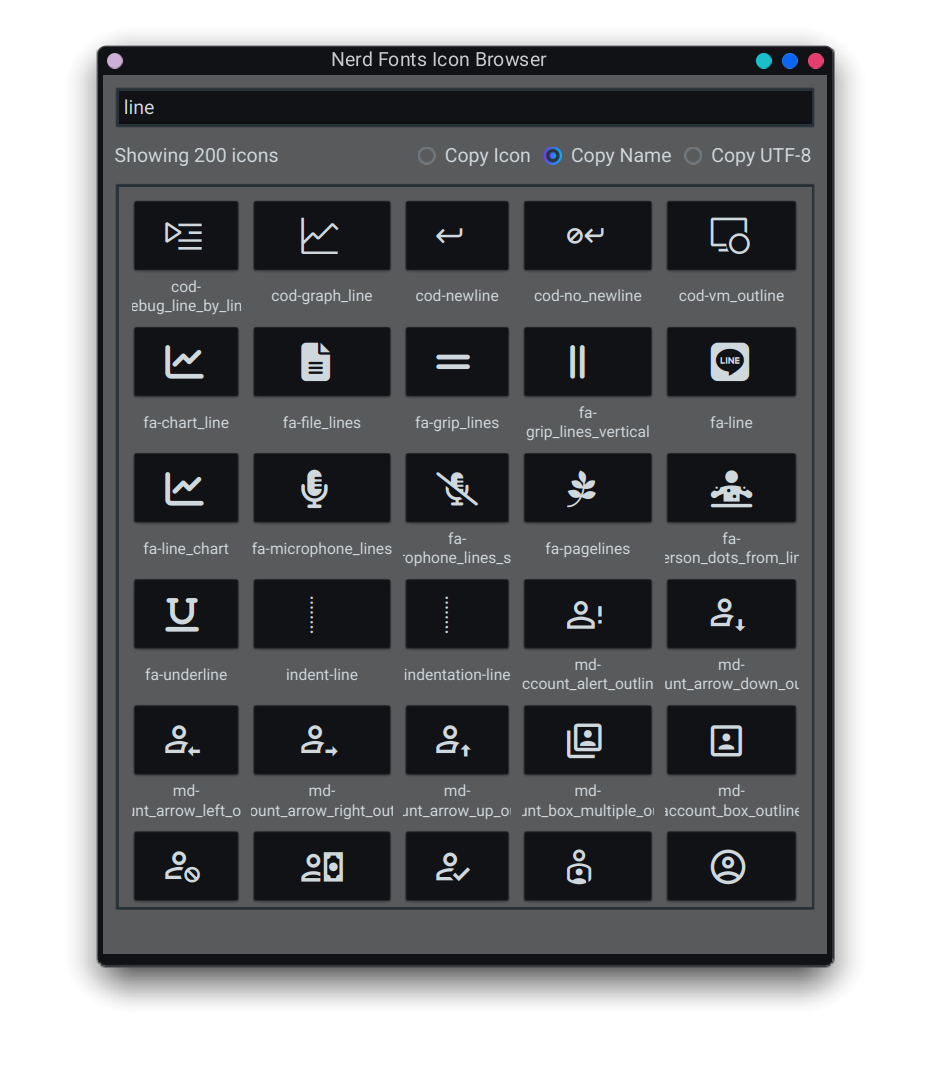
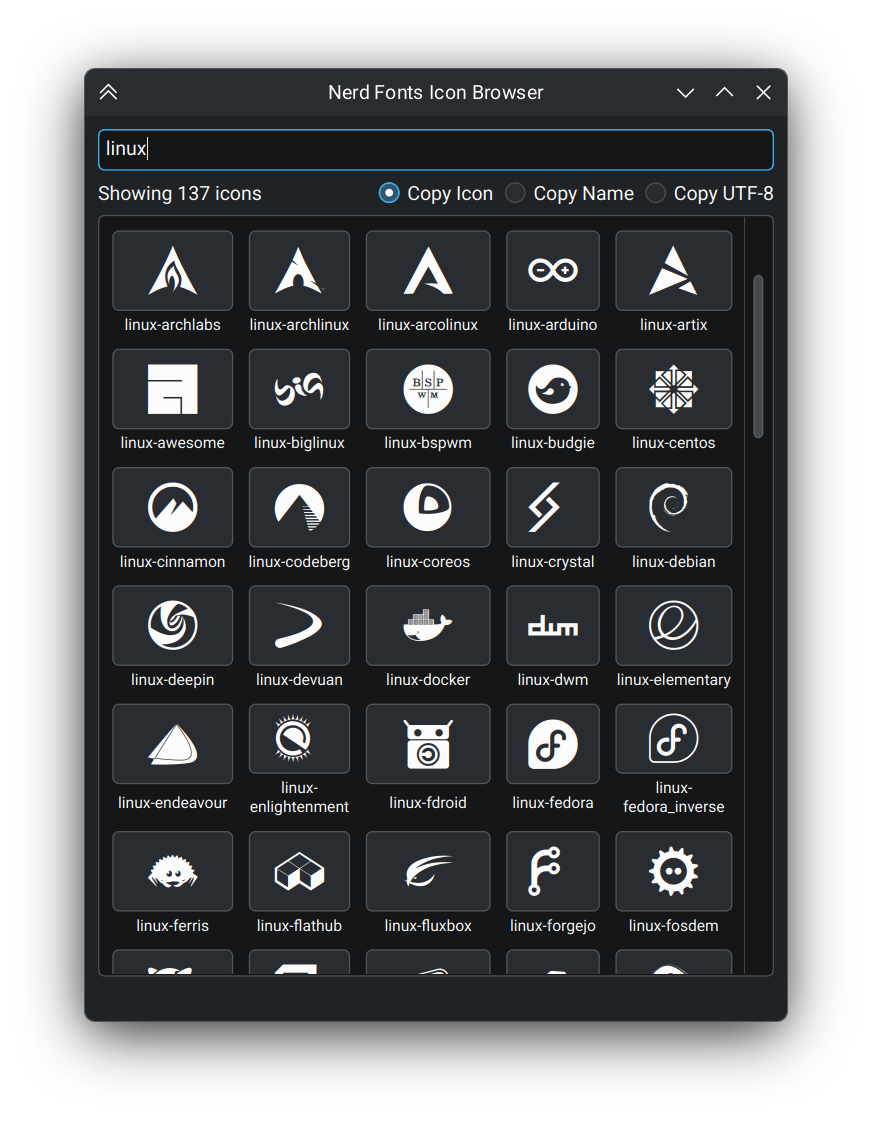
Update
Update README.md

Update README.md

Update README.md

Create ss2.png

update ss and font size

Update ss.png

update ss and size again

diff --git a/src/ui/icon_container/icon_container.cpp b/src/ui/icon_container/icon_container.cpp
@@ -1,8 +1,9 @@
 #include "icon_container.h"
+#include "../../constants.h"
+
 #include <QAction>
 #include <QStyle>
 #include <QMenu>
-#include <qtmetamacros.h>
 
 IconContainer::IconContainer(QWidget *parent, const QString &iconStr, const QString &labelStr, const QString &utfStr):
     QWidget(parent),
@@ -18,19 +19,25 @@ IconContainer::IconContainer(QWidget *parent, const QString &iconStr, const QStr
     setMinimumWidth(64);
     setMaximumHeight(92);
 
-    mainLayout->setContentsMargins(1, 1, 1, 1);
-    mainLayout->setSpacing(1);
+    mainLayout->setContentsMargins(2, 2, 2, 2);
+    mainLayout->setSpacing(2);
     mainLayout->addWidget(iconButton);
     mainLayout->addWidget(iconLabel);
 
     iconButton->setText(iconStr + "");
     iconButton->setContextMenuPolicy(Qt::CustomContextMenu);
-    iconButton->setStyleSheet("QPushButton { font-size: 32px; }");
+    iconButton->setStyleSheet(
+    "QPushButton { "
+        "font-size: " + QString::number(Constants::iconFontSize) + "px;"
+
+    "}"
+
+    );
 
     iconLabel->setText(labelStr);
     iconLabel->setAlignment(Qt::AlignCenter);
     iconLabel->setWordWrap(true);
-    iconLabel->setStyleSheet("QLabel { font-size: 12px; }");
+    iconLabel->setStyleSheet("QLabel { font-size: " + QString::number(Constants::labelFontSize) + "px; }");
 
     connect(iconButton, &QPushButton::clicked, this, &IconContainer::buttonClicked);
     connect(iconButton, &QPushButton::customContextMenuRequested, this, &IconContainer::contextMenu);

diff --git a/src/constants.h b/src/constants.h
@@ -5,6 +5,9 @@
 #include <QStandardPaths>
 
 namespace Constants {
+    const quint8 iconFontSize = 38;
+    const quint8 labelFontSize = 12;
+
     const quint8 maxColumns = 5;
     const quint8 maxItems = 200;
     const quint16 notificationDuration = 2000;

diff --git a/README.md b/README.md
@@ -1,37 +1,34 @@
+<div align="center">
+  <img src="res/etc/ss.png" width="480">
+</div>
+
 # Nerd Fonts Icon Browser
 
 A Qt based desktop app for browsing and searching Nerd Fonts icons with copy paste support, so you don't have to open a web browser everytime you want to search for nerd font icons. 
 
-## Screenshot
-Note: Color and theme might look different depending on your Qt theme.
-<img src="res/etc/ss.png" width="600">
-
-
 ## Download
 Binary realeases are available [here](https://github.com/BaiduNano/nerd-fonts-icon-browser/releases).
 
-## Compiling
-Requirements:
-- Qt6
-- CMake
-- C++20 compatible compiler, <b>clang</b> is recommended. 
-
-## Building
-
-```bash
-cmake -B build
-cmake --build build
-```
-
-## Usage
-
-1. Place `glyphnames.json` from the [Nerd Fonts repository](https://github.com/ryanoasis/nerd-fonts/blob/master/glyphnames.json) in the application directory, or `.local/share/nf-icon-browser`
-2. Run the application: `./build/NerdFontsIconBrowser`
-3. Search for icons using the search bar
-4. Click an icon to copy, or right-click for more options
+Note: Color and theme may look different depending on your Qt theme.
 
 ## Copy Options
 
 - **Icon**: copies the icon character
 - **Name**: copies the icon class name
 - **UTF-8**: copies the UTF-8 code
+
+## Compiling
+Requirements:
+- Qt6
+- CMake
+- Ninja
+- C++20 compatible compiler, <b>clang</b> is recommended. 
+
+## Building
+1.
+```bash
+cmake -B build
+cmake --build build
+```
+2. Place `glyphnames.json` from the [Nerd Fonts repository](https://github.com/ryanoasis/nerd-fonts/blob/master/glyphnames.json) in the application directory, or `.local/share/nf-icon-browser`
+3. Run `./build/NerdFontsIconBrowser`
